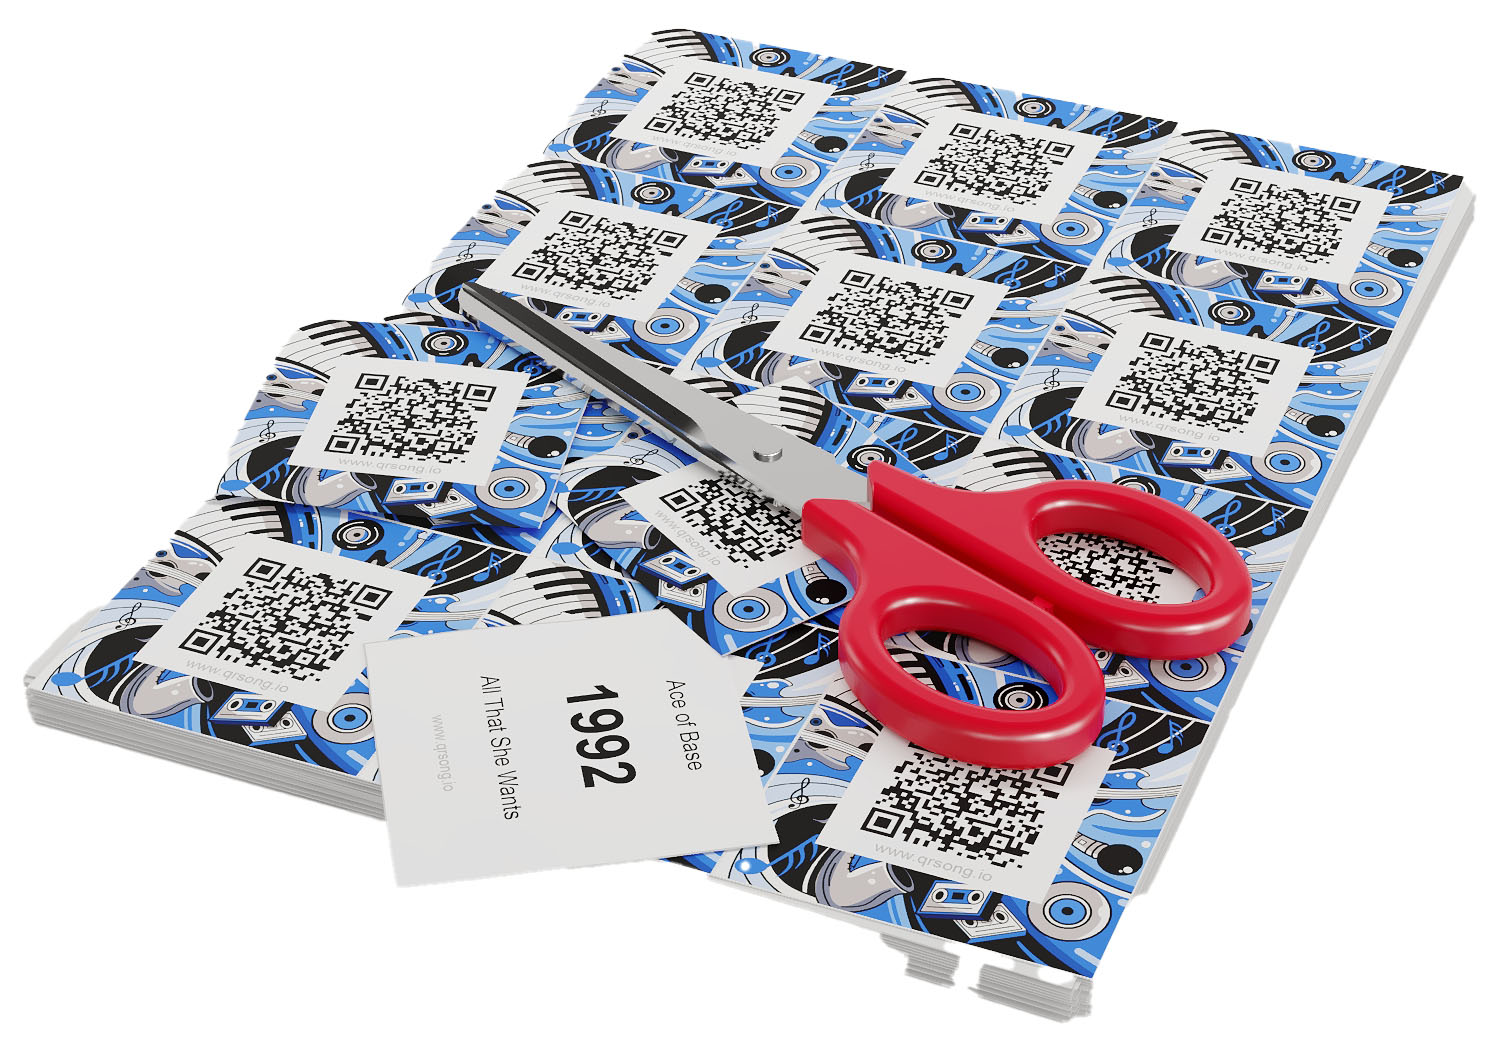
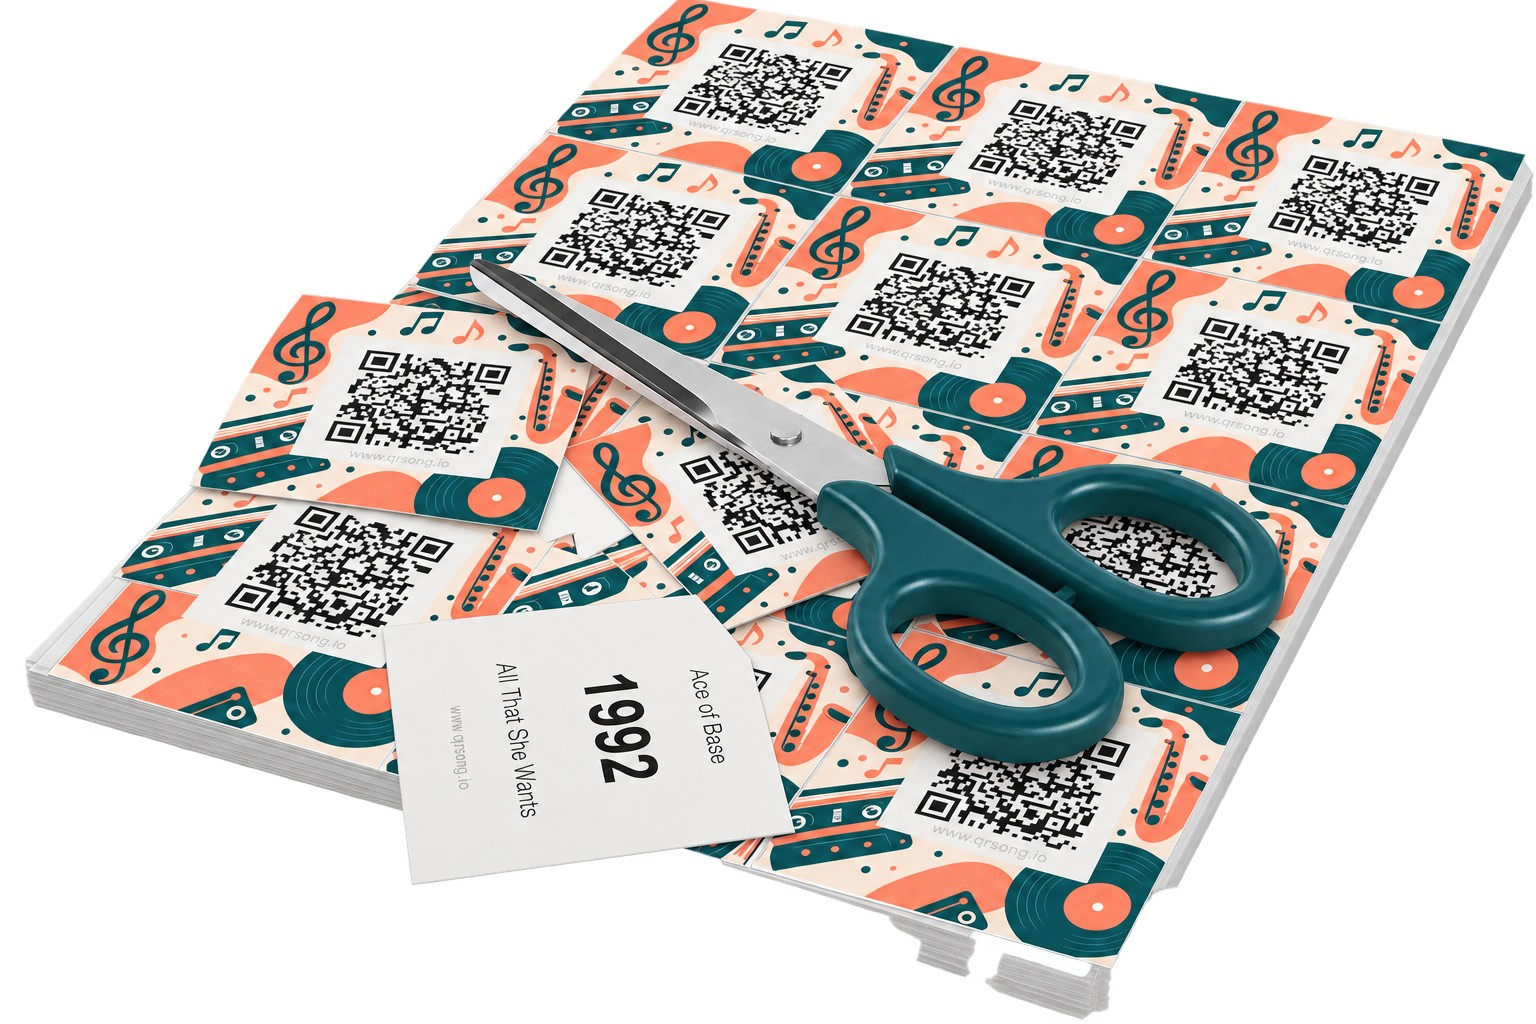
Brand the app theme, the box insert, bingo rounds and the shop photos
- Mobile app default theme was still the pre-2026 blue gradient. Its whole
  palette is now Disco to ink with cream text and Pop accents; every key and
  its order are unchanged and the version is bumped so clients refetch.
- Box insert fell back to plain white when the customer picked no background,
  while every sibling card template falls back to the cream brand artwork.
  It now does the same, front and back, honouring the opacity fields. Covered
  by a new template test that pins all four background branches.
- Bingo rounds 2 to 10 were generic Tailwind hues with a grey round 10. All
  ten rounds now come from the brand palette and stay distinguishable.
- Host cards use Archivo for the song title and year, like the other PDFs.
- Google Shopping photos showed the old blue cards. Replaced with the brand
  renders the site already uses, and the AI blog image seed with them.
- Price lists asked for Hagrid Text and Aeonik. Neither font file exists, so
  both were silently falling back; they now use Archivo and Inter like the
  rest of the kit. Layout verified identical at A4 across all three sheets.
- Card back domain line moves off Arial grey onto brand ink.

Claude-Session: https://claude.ai/code/session_013uG4vuhdEBV8g4yx5bYsis

diff --git a/test/unit/generation/box-insert-template.test.ts b/test/unit/generation/box-insert-template.test.ts
@@ -1,0 +1,90 @@
+import { describe, it, expect } from 'vitest';
+import ejs from 'ejs';
+import fs from 'fs/promises';
+import path from 'path';
+
+/**
+ * Renders src/views/pdf_box_insert.ejs (the box insert card that ships inside
+ * the lid) straight through EJS and asserts the background branches:
+ *
+ *  - customer picked nothing        -> the cream brand artwork, like every
+ *                                      other card template
+ *  - customer picked a colour       -> that solid / gradient, no artwork
+ *  - customer uploaded a background -> their own file, no artwork
+ *
+ * The route (`/qr/pdf-box/...`) only feeds the template `php` and `count`, so
+ * this covers the whole data path without a browser or Lambda.
+ */
+
+const TEMPLATE = path.resolve('src/views/pdf_box_insert.ejs');
+const BRAND_ARTWORK = '/assets/images/background_brand.png';
+
+async function render(php: Record<string, any>, count = 1): Promise<string> {
+  const template = await fs.readFile(TEMPLATE, 'utf-8');
+  return ejs.render(template, { php, count }, { filename: TEMPLATE });
+}
+
+describe('pdf_box_insert.ejs backgrounds', () => {
+  it('falls back to the brand artwork on both sides when the customer chose nothing', async () => {
+    const html = await render({ boxQuantity: 1, amount: 1 });
+
+    // Front and back both get the artwork.
+    const artwork = html.match(new RegExp(BRAND_ARTWORK, 'g')) || [];
+    expect(artwork).toHaveLength(2);
+
+    // ...and no plain white fill is emitted any more.
+    expect(html).not.toContain('background-color: #ffffff');
+  });
+
+  it('keeps the solid colour branch when the customer picked a colour', async () => {
+    const html = await render({
+      boxFrontBackgroundType: 'solid',
+      boxFrontBackgroundColor: '#18565e',
+      boxBackBackgroundType: 'solid',
+      boxBackBackgroundColor: '#feefe5',
+    });
+
+    expect(html).toContain('background-color: #18565e');
+    expect(html).toContain('background-color: #feefe5');
+    expect(html).not.toContain(BRAND_ARTWORK);
+  });
+
+  it('keeps the gradient branch when the customer picked a gradient', async () => {
+    const html = await render({
+      boxFrontBackgroundType: 'solid',
+      boxFrontUseFrontGradient: true,
+      boxFrontBackgroundColor: '#18565e',
+      boxFrontGradientColor: '#0b2c31',
+      boxBackBackgroundType: 'solid',
+      boxBackUseGradient: true,
+      boxBackBackgroundColor: '#f79677',
+      boxBackGradientColor: '#dd6a45',
+    });
+
+    expect(html).toContain('linear-gradient(180deg, #18565e 50%, #0b2c31 100%)');
+    expect(html).toContain('linear-gradient(180deg, #f79677 50%, #dd6a45 100%)');
+    expect(html).not.toContain(BRAND_ARTWORK);
+  });
+
+  it('uses the uploaded background when the customer supplied one', async () => {
+    const html = await render({
+      boxFrontBackgroundType: 'image',
+      boxFrontBackground: 'front.png',
+      boxBackBackgroundType: 'image',
+      boxBackBackground: 'back.png',
+    });
+
+    expect(html).toContain('/public/background/front.png');
+    expect(html).toContain('/public/background/back.png');
+    expect(html).not.toContain(BRAND_ARTWORK);
+  });
+
+  it('repeats the front/back pair once per insert', async () => {
+    const html = await render({ boxQuantity: 2, amount: 3 }, 0);
+
+    // boxQuantity x amount = 6 inserts, each with the artwork twice.
+    const artwork = html.match(new RegExp(BRAND_ARTWORK, 'g')) || [];
+    expect(artwork).toHaveLength(12);
+    expect(html).toContain('Insert 6 of 6');
+  });
+});

diff --git a/src/chatgpt.ts b/src/chatgpt.ts
@@ -1302,9 +1302,10 @@ Write in a professional, informative, and engaging style. The tone should be cle
 
   /**
    * Generate a hero image for an occasion / base event, themed around the
-   * occasion and its description. Mirrors generateBlogImage: edits the brand
-   * cards.png template so the QRSong product stays on-brand, then stores a
-   * wide hero-sized JPEG under PUBLIC_DIR/event_images.
+   * occasion and its description. Unlike generateBlogImage this takes no
+   * product reference image (see the prompt below): it is a pure
+   * text-to-image scene, stored as a wide hero-sized JPEG under
+   * PUBLIC_DIR/event_images.
    * @param name The occasion name (e.g. "Christmas") used for theming
    * @param description Optional admin description guiding the vibe
    * @returns Promise<string | null> - filename if successful, null if failed
